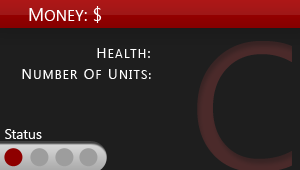
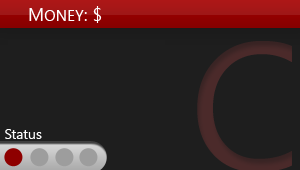
Updated Status Tab

Changed region(s): [[0.06, 0.4118, 0.33, 0.4706], [0.3, 0.2647, 0.51, 0.3529], [0.36, 0.4118, 0.51, 0.4706]]

diff --git a/UHSampleGame/Player/Player.cs b/UHSampleGame/Player/Player.cs
@@ -169,6 +169,15 @@ namespace UHSampleGame.Players
         static Texture2D[][] backgroundTabs;
 
         public bool isHUDDisplayed = false;
+
+        static Texture2D healthicon;
+        static Texture2D numUnitsIcon;
+        static Vector2[] healthIconLocations;
+        static Vector2[] numUnitsIconLocations;
+        static Vector2 healthIconOffset = new Vector2(60, 33);
+        static Vector2 numUnitsIconOffset = new Vector2(60, 85);
+        static SpriteFont statusScreenFont;
+
         #region Properties
        
         #endregion
@@ -186,7 +195,6 @@ namespace UHSampleGame.Players
             MoneyString = Money.ToString();
 
             SetupStatic();
-            //SetupNonStatic();
 
             currentlySelectedPlayerStatus = PlayerMenuTabs.Status;
             if (Type == PlayerType.Human)
@@ -221,109 +229,6 @@ namespace UHSampleGame.Players
             SetupAvatar(); 
             
         }
-
-        /*
-        public void SetupNonStatic()
-        {
-            unitIconLocation = new Vector2[5][];
-            highlightUnitIconLocations = new Rectangle[5][];
-            unitIcons = new Texture2D[MAX_UNIT_TYPES];
-            Vector2 unitIconOffset = new Vector2(44.0f, 0.0f);
-            Vector2 unitIconRowOffset = new Vector2(0.0f, 44.0f);
-            unitInformation = new UnitInformation[MAX_UNIT_TYPES];
-
-            unitInformation[1].type = UnitType.SpeedBoat;
-            unitInformation[1].icon = ScreenManager.Game.Content.Load<Texture2D>("PlayerMenu\\Icons\\plasma_tower");
-
-            unitInformation[6].type = UnitType.SpeederBoat;
-            unitInformation[6].icon = ScreenManager.Game.Content.Load<Texture2D>("PlayerMenu\\Icons\\electric_tower");
-
-            unitMeterBaseTexture = ScreenManager.Game.Content.Load<Texture2D>("PlayerMenu\\unit_meter_base");
-            unitMeterBaseLocation = new Rectangle[5];
-            unitMeterOverlayTexture = ScreenManager.Game.Content.Load<Texture2D>("PlayerMenu\\unit_meter_overlay");
-            unitMeterOverlaySource = new Rectangle(0, 0, 30, 200);
-            unitMeterOverlayDestination = new Rectangle[5];
-            unitMeterHighlightTexture = ScreenManager.Game.Content.Load<Texture2D>("PlayerMenu\\unit_meter_animated");
-            unitMeterHightlightSource = new Rectangle(0, 0, 30, 0);
-            unitMeterOverlayBaseY = new float[5];
-
-            for (int player = 1; player < 5; player++)
-            {
-                Vector2 iconOffset = new Vector2(0, 36);
-                Vector2 tabStartPosition = new Vector2(8, 148);
-                tabLocation[player] = new Vector2[NUM_TABS];
-                for (int t = 0; t < NUM_TABS; t++)
-                {
-                    tabLocation[player][t] = globalLocations[player] + tabStartPosition;
-                    tabStartPosition += tabOffset;
-                }
-
-                moneyLocation[player] = globalLocations[player] + new Vector2(110, -1);
-                statusHealthNameLocation[player] = globalLocations[player] + new Vector2(10, 40);
-                statusHealthLocation[player] = globalLocations[player] + new Vector2(120, 40);
-                statusNumberOfUnitsNameLocation[player] = globalLocations[player] + new Vector2(10, 80);
-                statusNumberOfUnitsLocation[player] = globalLocations[player] + new Vector2(180, 80);
-
-                iconLocations[player] = new Vector2[4];
-                highlightIconLocations[player] = new Rectangle[4];
-                Vector2 iconStartPosition = new Vector2(8, 36);
-
-                for (int icon = 0; icon < 4; icon++)
-                {
-                    iconLocations[player][icon] = globalLocations[player] + iconStartPosition;
-                    highlightIconLocations[player][icon] = new Rectangle((int)(iconLocations[player][icon].X - 5.0f + (highlightIcon.Width / 2)),
-                        (int)(iconLocations[player][icon].Y - 5.0f + (highlightIcon.Height / 2)),
-                        highlightIcon.Width, highlightIcon.Height);
-                    iconStartPosition += iconOffset;
-                }
-
-                for (int tower = 0; tower < NUM_DEFENSE_TOWERS; tower++)
-                {
-                    defenseTowerInfo[tower].nameLocation[player] = globalLocations[player] + new Vector2(70.0f, 30);
-                    defenseTowerInfo[tower].priceLocation[player] = globalLocations[player] + new Vector2(70.0f, 64);
-                    defenseTowerInfo[tower].descriptionLocation[player] = globalLocations[player] + new Vector2(70.0f, 94);
-                }
-
-                unitIconLocation[player] = new Vector2[MAX_UNIT_TYPES];
-                highlightUnitIconLocations[player] = new Rectangle[MAX_UNIT_TYPES];
-                Vector2 unitIconStartPosition = new Vector2(48, 36);
-                for (int unit = 0; unit < MAX_UNIT_TYPES; unit++)
-                {
-                    if (unit == 4)
-                    {
-                        //move over invalid middle
-                        unitIconStartPosition += unitIconOffset;
-                    }
-                    unitIconLocation[player][unit] = globalLocations[player] + unitIconStartPosition;
-                    highlightUnitIconLocations[player][unit] = new Rectangle((int)(unitIconLocation[player][unit].X - 5.0f + (highlightIcon.Width / 2)),
-                        (int)(unitIconLocation[player][unit].Y - 5.0f + (highlightIcon.Height / 2)),
-                        highlightIcon.Width, highlightIcon.Height);
-                    unitIconStartPosition += unitIconOffset;
-                    if (unit == 2 || unit == 4)
-                    {
-                        unitIconStartPosition += unitIconRowOffset;
-                        unitIconStartPosition.X = 48;
-                    }
-                }
-
-                unitMeterOverlayDestination[player] = new Rectangle((int)globalLocations[player].X + 8,
-                    (int)globalLocations[player].Y + 44 + 100,
-                    15,
-                    0);
-                unitMeterOverlayBaseY[player] = unitMeterOverlayDestination[player].Y;
-
-                unitMeterBaseLocation[player] = new Rectangle((int)globalLocations[player].X + 8,
-                    (int)globalLocations[player].Y + 44,
-                    15,
-                    100);
-
-            }
-
-
-            highlightIconSourceRect = new Rectangle(0, 0, highlightIcon.Width, highlightIcon.Height);
-            highlightOrigin = new Vector2(highlightIcon.Width / 2.0f, highlightIcon.Height / 2.0f);
-        }
-        */
 
         public void SetupStatic()
         {
@@ -422,10 +327,10 @@ namespace UHSampleGame.Players
                     }
 
                     moneyLocation[player] = globalLocations[player] + new Vector2(110, -1);
-                    statusHealthLocation[player] = globalLocations[player] + new Vector2(164, 38);
-                    computerStatusHealthLocation[player] = globalLocations[player] + new Vector2(178, 62);
-                    statusNumberOfUnitsLocation[player] = globalLocations[player] + new Vector2(164, 60);
-                    computerStatusNumberOfUnitsLocation[player] = globalLocations[player] + new Vector2(178, 82);
+                    statusHealthLocation[player] = globalLocations[player] + new Vector2(125, 36);
+                    computerStatusHealthLocation[player] = globalLocations[player] + new Vector2(125, 36);
+                    statusNumberOfUnitsLocation[player] = globalLocations[player] + new Vector2(125, 85);
+                    computerStatusNumberOfUnitsLocation[player] = globalLocations[player] + new Vector2(125, 85);
 
                     iconLocations[player] = new Vector2[4];
                     highlightIconLocations[player] = new Rectangle[4];
@@ -520,18 +425,34 @@ namespace UHSampleGame.Players
                     for (int team = 1; team < 5; team++)
                     {
                         defensiveTab[player][team] = 
-                            ScreenManager.Game.Content.Load<Texture2D>("PlayerMenu\\Tabs\\player0" + player + "DefensiveUnits" + mapTeamNumToTeamChar[team]);
+                            ScreenManager.Game.Content.Load<Texture2D>("PlayerMenu\\Tabs\\player0" + player + 
+                            "DefensiveUnits" + mapTeamNumToTeamChar[team]);
                         offensiveTab[player][team] = 
-                            ScreenManager.Game.Content.Load<Texture2D>("PlayerMenu\\Tabs\\player0" + player + "OffensiveUnits" + mapTeamNumToTeamChar[team]);
+                            ScreenManager.Game.Content.Load<Texture2D>("PlayerMenu\\Tabs\\player0" + player + 
+                            "OffensiveUnits" + mapTeamNumToTeamChar[team]);
                         statusTab[player][team] = 
-                            ScreenManager.Game.Content.Load<Texture2D>("PlayerMenu\\Tabs\\player0" + player + "Status" + mapTeamNumToTeamChar[team]);
+                            ScreenManager.Game.Content.Load<Texture2D>("PlayerMenu\\Tabs\\player0" + player + 
+                            "Status" + mapTeamNumToTeamChar[team]);
                         powersTab[player][team] = 
-                            ScreenManager.Game.Content.Load<Texture2D>("PlayerMenu\\Tabs\\player0" + player + "Power" + mapTeamNumToTeamChar[team]);
+                            ScreenManager.Game.Content.Load<Texture2D>("PlayerMenu\\Tabs\\player0" + player + 
+                            "Power" + mapTeamNumToTeamChar[team]);
                         backgroundTabs[player][team] =
-                            ScreenManager.Game.Content.Load<Texture2D>("PlayerMenu\\Tabs\\player0" + player + "BACKGROUND_" + mapTeamNumToTeamChar[team]);
+                            ScreenManager.Game.Content.Load<Texture2D>("PlayerMenu\\Tabs\\player0" + player + 
+                            "BACKGROUND_" + mapTeamNumToTeamChar[team]);
 
                     }
                 }
+
+                healthicon = ScreenManager.Game.Content.Load<Texture2D>("PlayerMenu\\Icons\\icon_health");
+                numUnitsIcon = ScreenManager.Game.Content.Load<Texture2D>("PlayerMenu\\Icons\\icon_num_units");
+                healthIconLocations = new Vector2[5];
+                numUnitsIconLocations = new Vector2[5];
+                for (int i = 1; i < 5; i++)
+                {
+                    healthIconLocations[i] = globalLocations[i] + healthIconOffset;
+                    numUnitsIconLocations[i] = globalLocations[i] + numUnitsIconOffset;
+                }
+                statusScreenFont = ScreenManager.Game.Content.Load<SpriteFont>("PlayerMenu\\statusScreenFont");
 
             }
         }
@@ -992,15 +913,18 @@ namespace UHSampleGame.Players
             if (Type == PlayerType.Human)
             {
                 ScreenManager.SpriteBatch.Draw(statusTab[PlayerNum][TeamNum], globalLocations[PlayerNum], Color.White);
-                ScreenManager.SpriteBatch.DrawString(statusFont, HealthString, statusHealthLocation[PlayerNum], Color.White);
-                ScreenManager.SpriteBatch.DrawString(statusFont, UnitCollection.UnitCountForPlayerString(PlayerNum),
+                ScreenManager.SpriteBatch.Draw(healthicon, healthIconLocations[PlayerNum], Color.White);
+                ScreenManager.SpriteBatch.Draw(numUnitsIcon, numUnitsIconLocations[PlayerNum], Color.White);
+                ScreenManager.SpriteBatch.DrawString(statusScreenFont, HealthString, statusHealthLocation[PlayerNum], Color.White);
+                ScreenManager.SpriteBatch.DrawString(statusScreenFont, UnitCollection.UnitCountForPlayerString(PlayerNum),
                     statusNumberOfUnitsLocation[PlayerNum], Color.White);
             }
             else
             {
                 ScreenManager.SpriteBatch.Draw(computerTags[TeamNum], globalLocations[PlayerNum], Color.White);
-                ScreenManager.SpriteBatch.DrawString(statusFont, HealthString, computerStatusHealthLocation[PlayerNum], Color.White);
-                ScreenManager.SpriteBatch.DrawString(statusFont, UnitCollection.UnitCountForPlayerString(PlayerNum),
+                ScreenManager.SpriteBatch.DrawString(statusScreenFont, HealthString, 
+                    computerStatusHealthLocation[PlayerNum], Color.White);
+                ScreenManager.SpriteBatch.DrawString(statusScreenFont, UnitCollection.UnitCountForPlayerString(PlayerNum),
                     computerStatusNumberOfUnitsLocation[PlayerNum], Color.White);
             }
         }

diff --git a/UHSampleGame/CoreObjects/Towers/TowerCollection.cs b/UHSampleGame/CoreObjects/Towers/TowerCollection.cs
@@ -56,7 +56,7 @@ namespace UHSampleGame.CoreObjects.Towers
         static int updateCount;
         static int drawCount;
 
-        static Texture2D hudBackground;
+        static Texture2D[] hudBackground;
         static Rectangle hudBackgroundLocation = new Rectangle(0, 0, 40, 20);
         static Rectangle hudBackgroundSourceLocation = new Rectangle(0, 0, 1280, 394);
         static Vector2 hudBackgroundOffsetFromTower = new Vector2(-20, 8);
@@ -69,15 +69,15 @@ namespace UHSampleGame.CoreObjects.Towers
 
         static Texture2D hudHealthBar;
         static Rectangle hudHealthSource = new Rectangle(0, 0, 904, 136);
-        static Rectangle hudHealthDestination = new Rectangle(0, 0, 34, 10);
-        static Rectangle hudHealthMaxDestination = new Rectangle(0, 0, 34, 10);
-        static Vector2 hudHealthOffset = new Vector2(6, 0);
+        static Rectangle hudHealthDestination = new Rectangle(0, 0, 40, 10);
+        static Rectangle hudHealthMaxDestination = new Rectangle(0, 0, 40, 10);
+        static Vector2 hudHealthOffset = new Vector2(0, 0);
 
-        static Texture2D hudUpgradeBar;
+        static Texture2D[] hudUpgradeBar;
         static Rectangle hudUpgradeSource = new Rectangle(0, 0, 904, 136);
-        static Rectangle hudUpgradeDestination = new Rectangle(0, 0, 34, 10);
-        static Rectangle hudUpgradeMaxDestination = new Rectangle(0, 0, 34, 10);
-        static Vector2 hudUpgradeOffset = new Vector2(6, 10);
+        static Rectangle hudUpgradeDestination = new Rectangle(0, 0, 40, 10);
+        static Rectangle hudUpgradeMaxDestination = new Rectangle(0, 0, 40, 10);
+        static Vector2 hudUpgradeOffset = new Vector2(0, 10);
         #endregion
 
         #region Initialize
@@ -142,10 +142,18 @@ namespace UHSampleGame.CoreObjects.Towers
                 }
             }
 
-            hudBackground = ScreenManager.Game.Content.Load<Texture2D>("HUD\\towerStatus");
+            hudBackground = new Texture2D[5];
+            hudBackground[1] = ScreenManager.Game.Content.Load<Texture2D>("HUD\\towerStatus1");
+            hudBackground[2] = ScreenManager.Game.Content.Load<Texture2D>("HUD\\towerStatus2");
+            hudBackground[3] = ScreenManager.Game.Content.Load<Texture2D>("HUD\\towerStatus3");
+            hudBackground[4] = ScreenManager.Game.Content.Load<Texture2D>("HUD\\towerStatus4");
             levelFont = ScreenManager.Game.Content.Load<SpriteFont>("HUD\\levelFont");
             hudHealthBar = ScreenManager.Game.Content.Load<Texture2D>("HUD\\towerStatus_Health");
-            hudUpgradeBar = ScreenManager.Game.Content.Load<Texture2D>("HUD\\towerStatus_Growth");
+            hudUpgradeBar = new Texture2D[5];
+            hudUpgradeBar[1] = ScreenManager.Game.Content.Load<Texture2D>("HUD\\towerStatus_Growth1");
+            hudUpgradeBar[2] = ScreenManager.Game.Content.Load<Texture2D>("HUD\\towerStatus_Growth2");
+            hudUpgradeBar[3] = ScreenManager.Game.Content.Load<Texture2D>("HUD\\towerStatus_Growth3");
+            hudUpgradeBar[4] = ScreenManager.Game.Content.Load<Texture2D>("HUD\\towerStatus_Growth3");
         }
 
         public static int AllTowerCount()
@@ -349,7 +357,7 @@ namespace UHSampleGame.CoreObjects.Towers
                                 levelLocation += levelOffset;
 
                                 //draw background
-                                ScreenManager.SpriteBatch.Draw(hudBackground,
+                                ScreenManager.SpriteBatch.Draw(hudBackground[towers[p][j][k].Level],
                                     hudBackgroundLocation, hudBackgroundSourceLocation, hudColor);
 
                                 //draw level num
@@ -365,7 +373,8 @@ namespace UHSampleGame.CoreObjects.Towers
                                 //draw upgrade bar
                                 hudUpgradeDestination.X = (int)(hudBackgroundLocation.X + hudUpgradeOffset.X);
                                 hudUpgradeDestination.Y = (int)(hudBackgroundLocation.Y + hudUpgradeOffset.Y);
-                                ScreenManager.SpriteBatch.Draw(hudUpgradeBar,
+                                hudUpgradeDestination.Width = (int)((towers[p][j][k].XP / 100) * hudUpgradeMaxDestination.Width);
+                                ScreenManager.SpriteBatch.Draw(hudUpgradeBar[towers[p][j][k].Level],
                                     hudUpgradeDestination, hudUpgradeSource, hudColor);
 
                                 drawCount++;

diff --git a/UHSampleGame/CoreObjects/Towers/Tower.cs b/UHSampleGame/CoreObjects/Towers/Tower.cs
@@ -41,6 +41,7 @@ namespace UHSampleGame.CoreObjects.Towers
         public int TeamNum;
         public int PlayerNum;
         public Unit unitToAttack;
+        int currentXPToGive;
 
         private TimeSpan timeToAttack;
         private TimeSpan currentTimeToAttack;
@@ -81,7 +82,7 @@ namespace UHSampleGame.CoreObjects.Towers
             HealthCapacity = 100;
             Health = HealthCapacity;
             XP = 0;
-            Level = 0;
+            Level = 1;
             Cost = 100;
             TotalInvestedCost = Cost;
 
@@ -142,6 +143,7 @@ namespace UHSampleGame.CoreObjects.Towers
             if (unitToAttack != null && !unitToAttack.IsDeployed())
             {
                 unitToAttack = unit;
+                currentXPToGive = unitToAttack.XPToGive;
                 return;
             }
 
@@ -150,6 +152,7 @@ namespace UHSampleGame.CoreObjects.Towers
                 if (unitToAttack == null || unit.PathLength < unitToAttack.PathLength)
                 {
                     unitToAttack = unit;
+                    currentXPToGive = unitToAttack.XPToGive;
                     //unitToAttack.Died += GetNewAttackUnit;
                 }
             }
@@ -163,8 +166,19 @@ namespace UHSampleGame.CoreObjects.Towers
                 if (unitToAttack != null && unitToAttack.Health > 0)
                 {
                     ProjectileManager.AddParticle(this.Position, unitToAttack.Position);
+                    
                     unitToAttack.TakeDamage(attackStrength);
-                    //DO XP GIVING HERE                    
+
+                    //DO XP GIVING HERE        
+                    if (Level < 4 && unitToAttack == null)
+                    {
+                        XP += currentXPToGive + (int)((Level / 4.0f) * currentXPToGive);
+                        if (XP > 100)
+                        {
+                            XPUpgrade();
+                        }
+                    }
+                    
                 }
                 currentTimeToAttack = TimeSpan.Zero;
             }
@@ -195,6 +209,12 @@ namespace UHSampleGame.CoreObjects.Towers
             }
 
             return 0;
+        }
+
+        public void XPUpgrade()
+        {
+            Level++;
+            XP = 0;
         }
 
         public int DestroyCost()

diff --git a/UHSampleGame/CoreObjects/Units/Unit.cs b/UHSampleGame/CoreObjects/Units/Unit.cs
@@ -29,6 +29,8 @@ namespace UHSampleGame.CoreObjects.Units
         int goalTileID;
         int focalTileID;
 
+        public int XPToGive;
+
         //Tile previousTile;
        // Tile currentTile;
         //Tile goalTile;
@@ -89,12 +91,15 @@ namespace UHSampleGame.CoreObjects.Units
             {
                 case UnitType.SpeedBoat:
                     Damage = 50;
+                    XPToGive = 2;
                     break;
                 case UnitType.SpeederBoat:
                     Damage = 100;
+                    XPToGive = 3;
                     break;
                 default:
                     Damage = 10;
+                    XPToGive = 1;
                     break;
             }
         }
